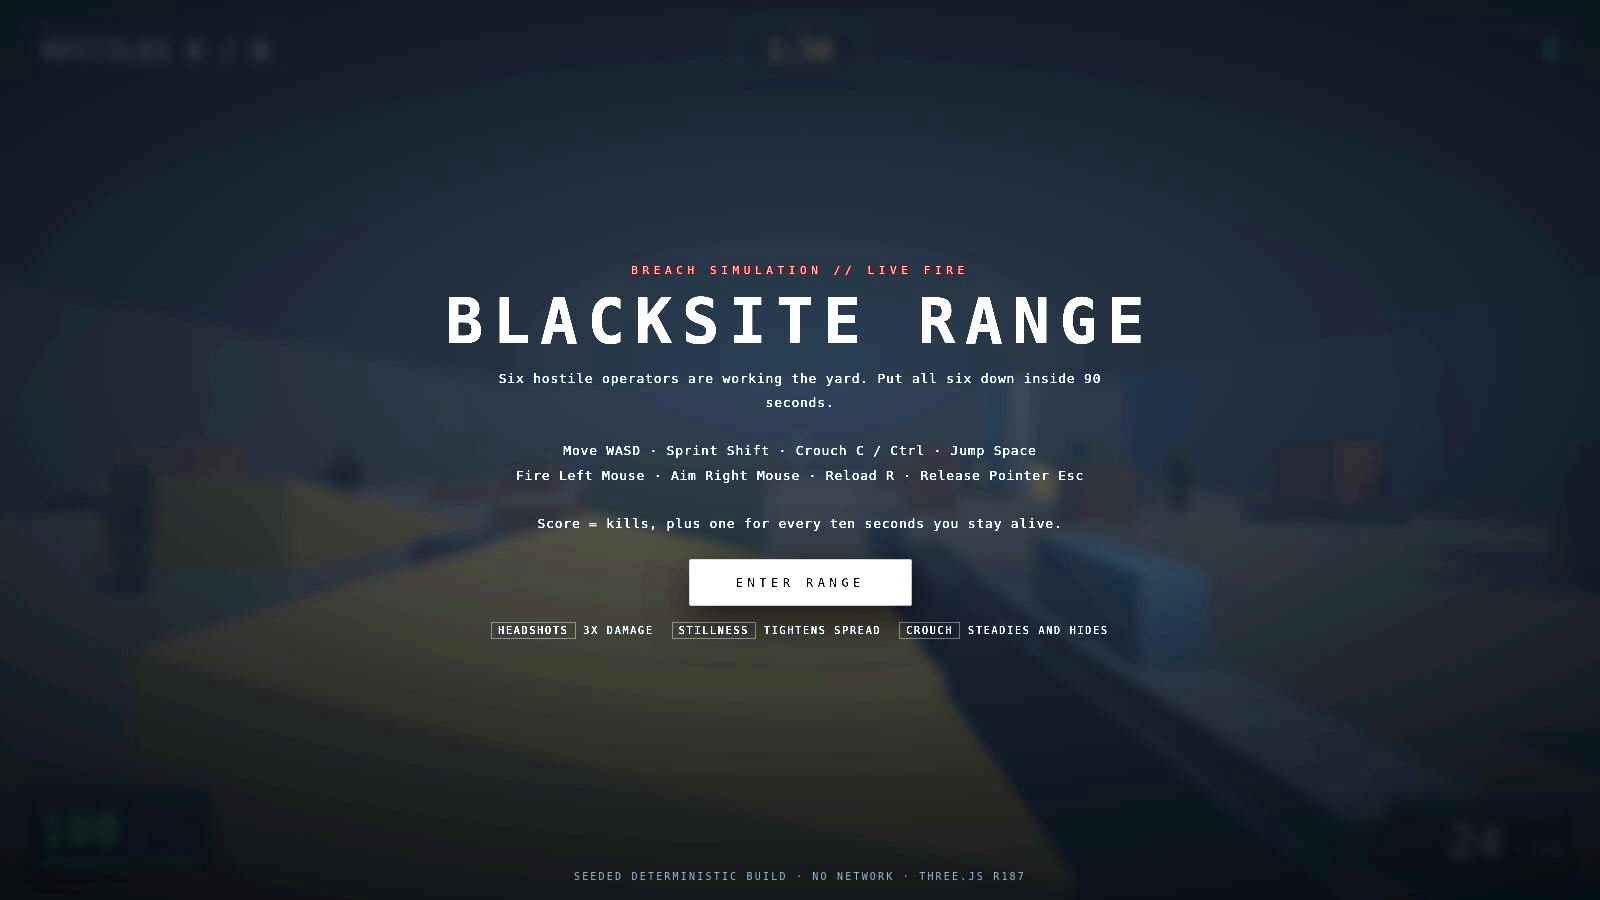
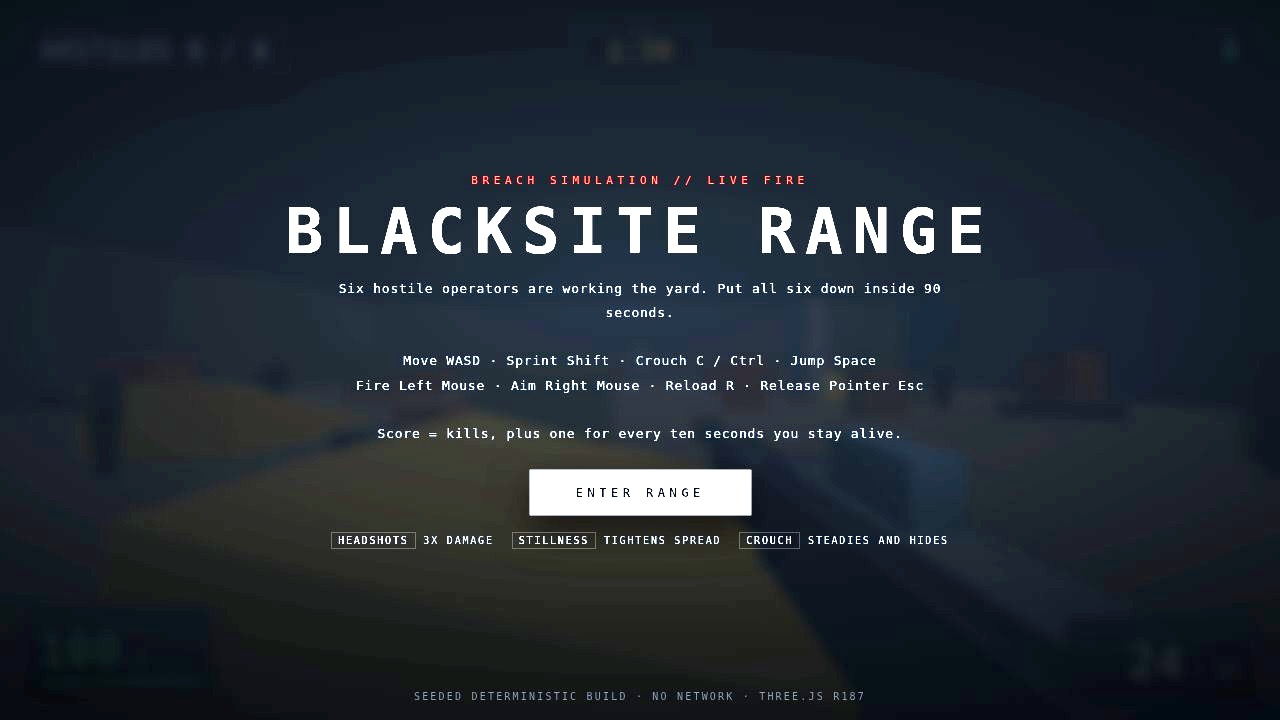
fix: HUD keeps the hostile count when the round ends; README names the game

diff --git a/game/src/main.js b/game/src/main.js
@@ -410,7 +410,7 @@ function endRound(win, reason) {
   if (document.exitPointerLock) document.exitPointerLock();
 
   hud.setScore(score);
-  setHostiles(0);
+  setHostiles(shooters.aliveCount());
   hud.onPlay = () => startRound();
 
   const survived = elapsed.toFixed(1);

diff --git a/README.md b/README.md
@@ -1,4 +1,4 @@
-# threejs-fps-02 entry — COLD RANGE
+# threejs-fps-02 entry — BLACKSITE RANGE
 
 [![make.fun](https://make.fun/badge/threejs-fps-02.svg)](https://make.fun/bounty/threejs-fps-02)
 [![rank](https://make.fun/badge/threejs-fps-02/mhmdrizki803-boop/threejs-fps02-cold-range-c/rank.svg)](https://make.fun/bounty/threejs-fps-02)
